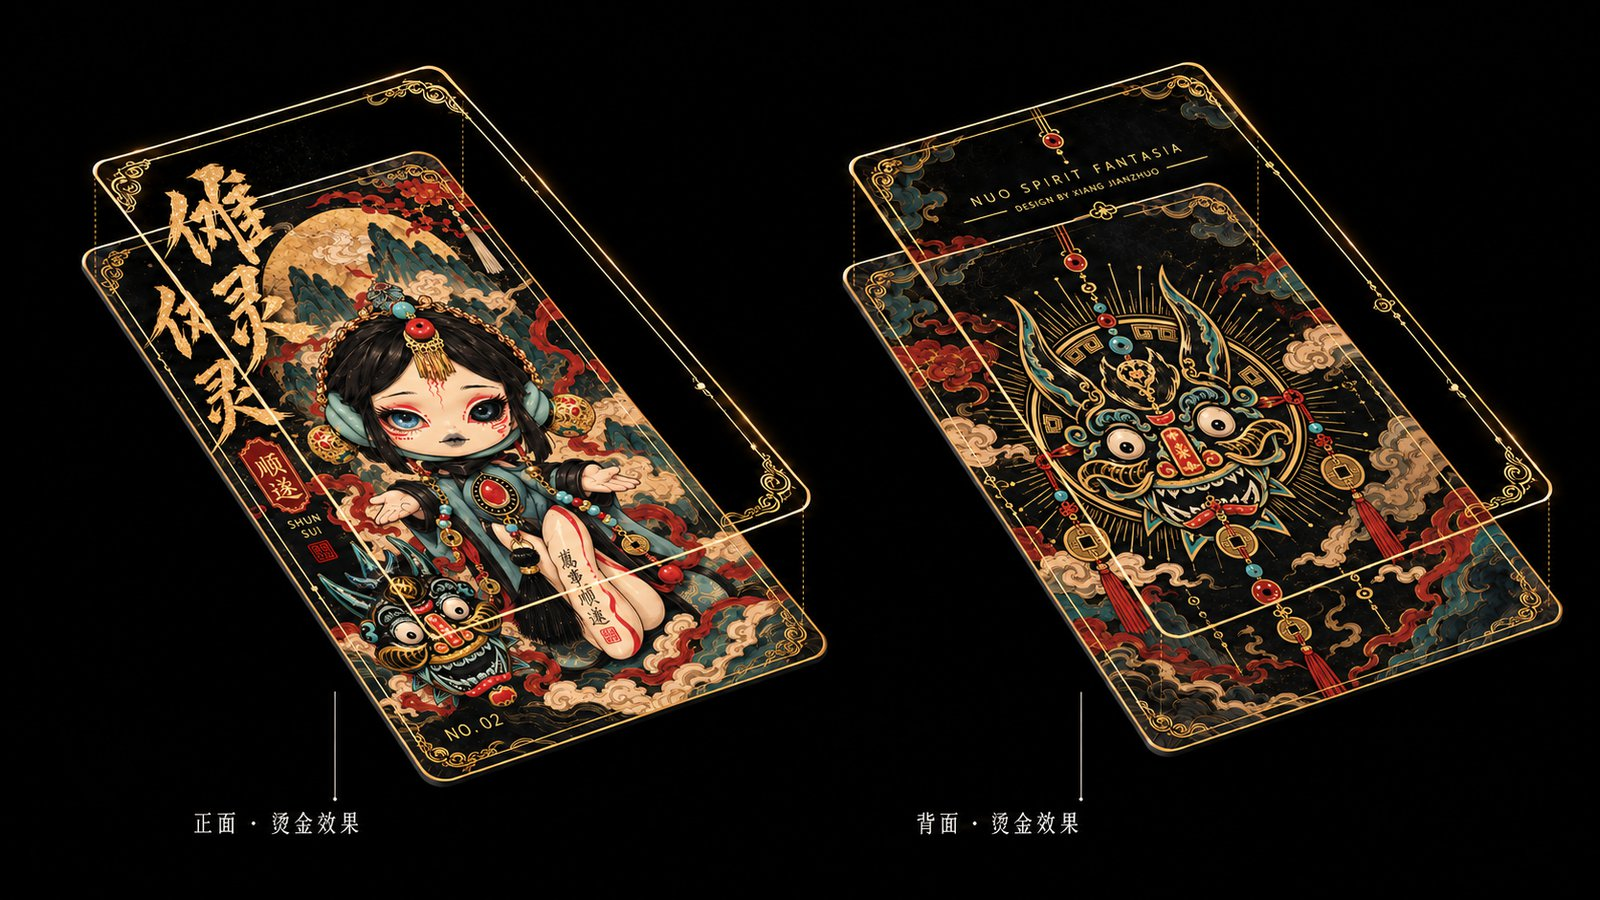
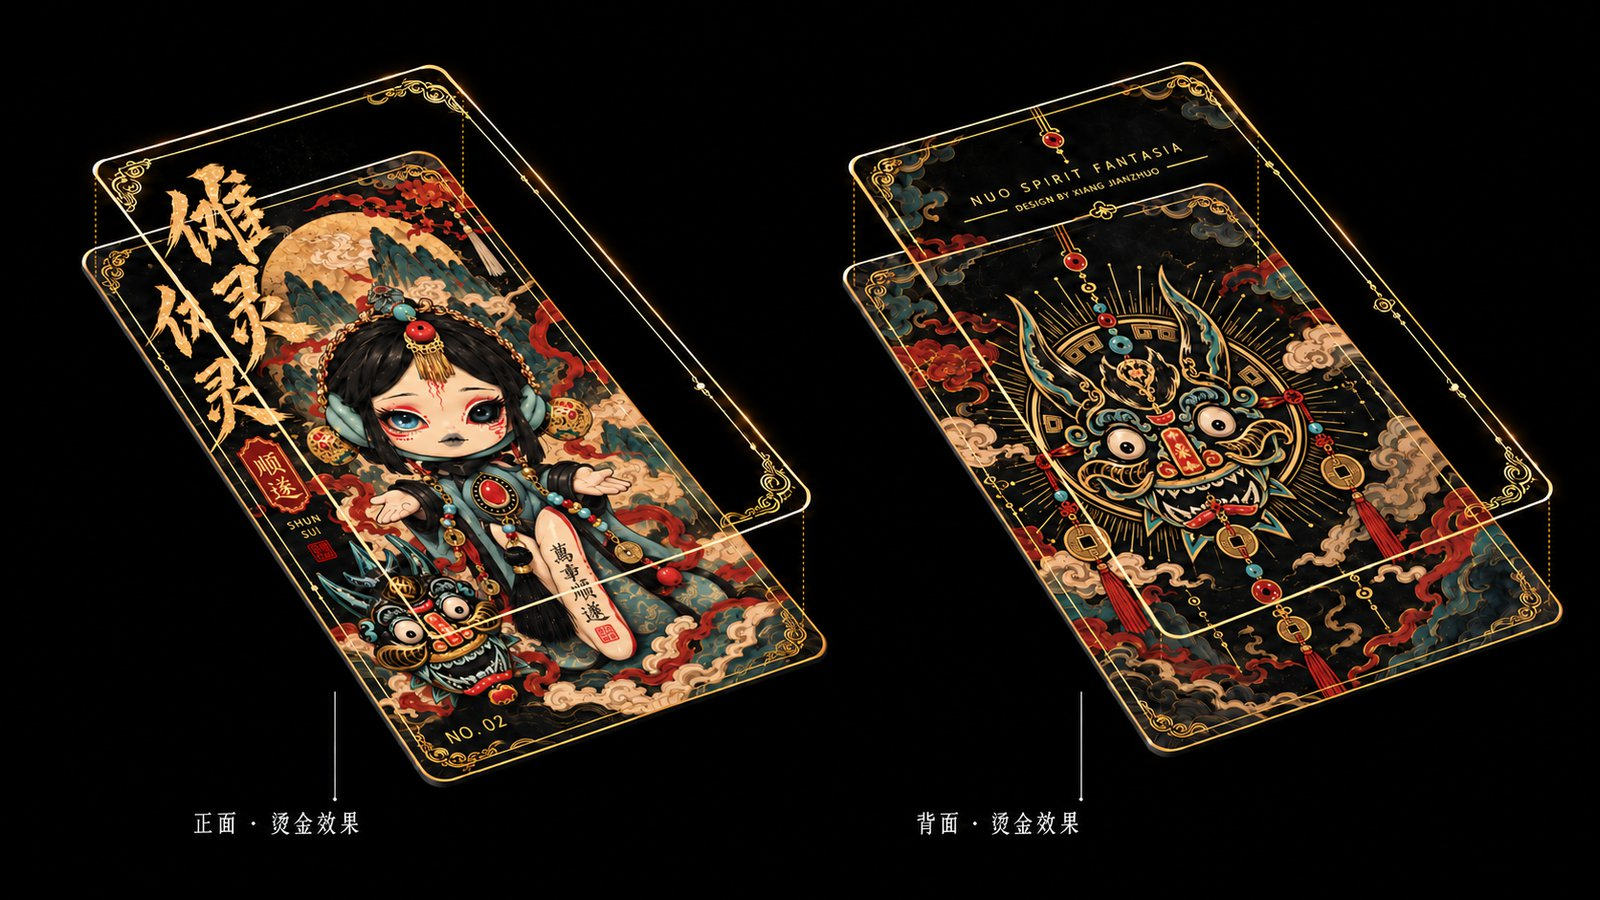
换 NO.02 卡面两图（精修版），版本号进位 20260918b 绕缓存
- nuo2-card / nuo2-card-foil 源文件更新后重新构建（336.8 / 258.9 KB）
- 卡面内容与文案一致，caption 无需改动

diff --git a/nuoling.html b/nuoling.html
@@ -112,7 +112,7 @@
     </div>
     <div class="profile" data-reveal style="margin-top:56px">
       <figure>
-        <img src="assets/nuoling/nuo2-card-foil.jpg?v=20260918" alt="传统傩面 身份卡 NO.02 烫金效果" loading="lazy">
+        <img src="assets/nuoling/nuo2-card-foil.jpg?v=20260918b" alt="传统傩面 身份卡 NO.02 烫金效果" loading="lazy">
       </figure>
       <dl>
         <div><dt>编号</dt><dd>NO.02</dd></div>
@@ -312,7 +312,7 @@
     </div>
   </div>
   <div class="bleed" data-reveal style="margin-top:8vh">
-    <img src="assets/nuoling/nuo2-card.jpg?v=20260918" alt="传统傩面 身份卡 NO.02 正面与背面" loading="lazy">
+    <img src="assets/nuoling/nuo2-card.jpg?v=20260918b" alt="传统傩面 身份卡 NO.02 正面与背面" loading="lazy">
   </div>
   <div class="bleed-cap">传统傩面 · 身份卡 NO.02 —— 正面（“傩灵”题字 / “顺遂”印）· 背面（傩面徽记 / NUO SPIRIT FANTASIA）</div>
   <div class="bleed" data-reveal style="margin-top:56px">
